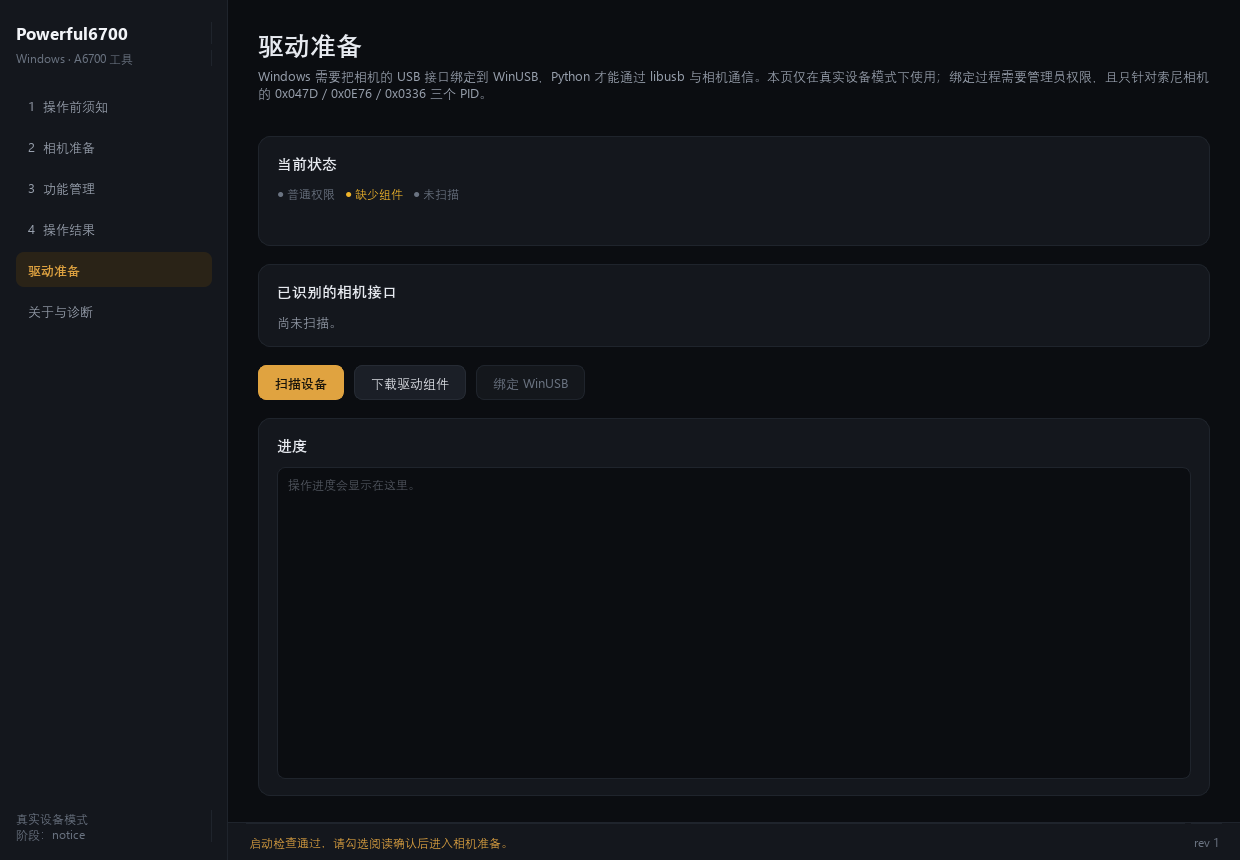
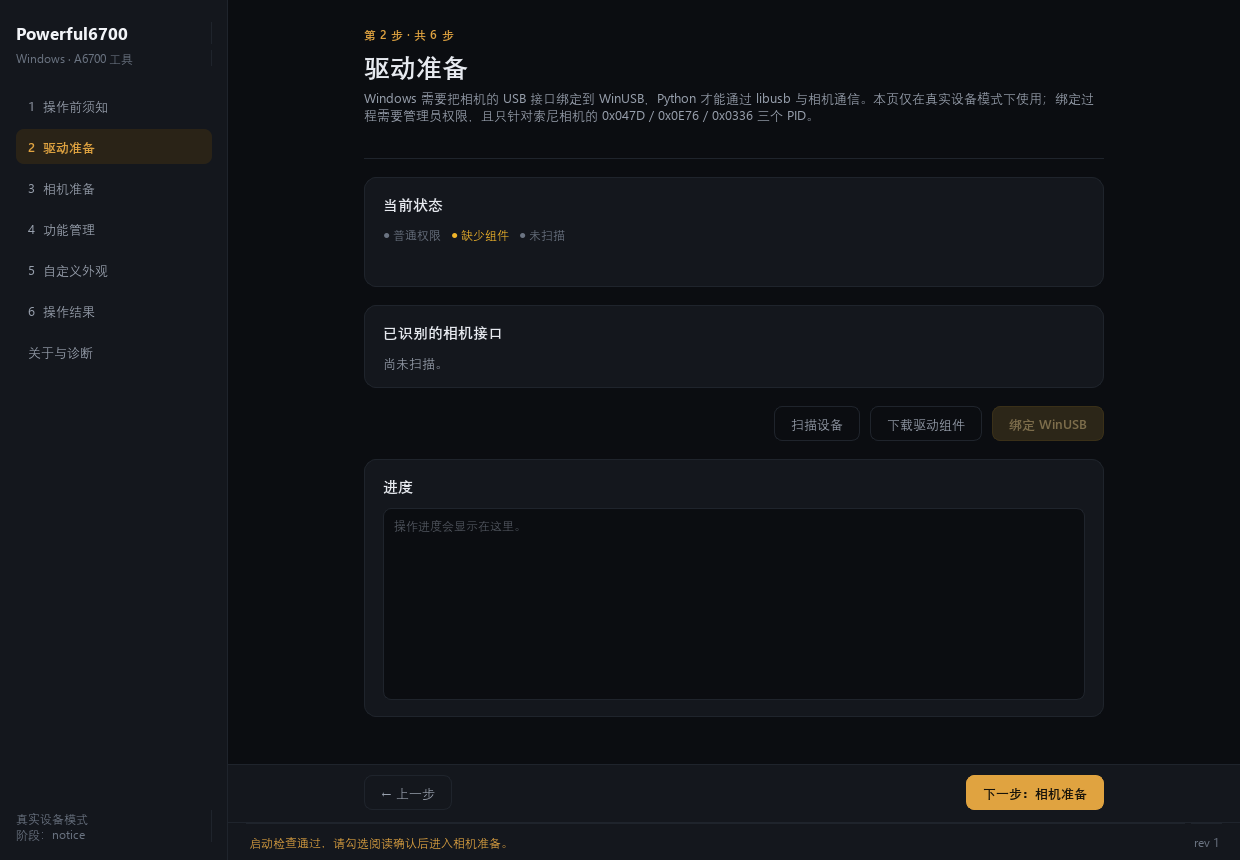
release: 0.3.0 — 新排版截图、README 数字更新

diff --git a/src/a6700win/version.py b/src/a6700win/version.py
@@ -1,6 +1,6 @@
 """版本信息集中在此，避免多处漂移。"""
 
 APP_NAME = "Powerful6700Win"
-APP_VERSION = "0.2.0"
+APP_VERSION = "0.3.0"
 APP_TITLE = "Powerful6700 · Windows"
 UPSTREAM_NOTE = "基于 xyzhangxin/sony-a6700-powerful 的 a6700_unlock 0.2.0 运行时（GPL-3.0）构建的 Windows 适配层"

diff --git a/README.md b/README.md
@@ -68,7 +68,7 @@
 
 - `third_party/a6700_unlock/` 是上游运行时 [0.2.0](https://github.com/xyzhangxin/sony-a6700-powerful/releases/tag/v0.2.0) 的**逐字节副本**（GPL-3.0，含 LICENSE／NOTICE），固件字段表、写入事务、结果分类、界面状态机都是上游的。
 - 本项目自己写的代码只有 `src/a6700win/`（Windows 适配层 + PySide6 界面）、`tools/`、`tests/`、`packaging/`。
-- 适配方式不是在运行时里改代码，而是**在启动时注入 22 个替换点**（`src/a6700win/patches.py`，逐项理由见 [docs/ARCHITECTURE.md](docs/ARCHITECTURE.md)），因此上游再发版时可以整目录替换后重新对齐。
+- 适配方式不是在运行时里改代码，而是**在启动时注入 24 个替换点**（`src/a6700win/patches.py`，逐项理由见 [docs/ARCHITECTURE.md](docs/ARCHITECTURE.md)），因此上游再发版时可以整目录替换后重新对齐。
 
 我们具体做了什么：
 
@@ -96,17 +96,21 @@
 
 以下截图用同一份发布包渲染，界面和文案都是实际内容（截图时没有连相机）：
 
-| 操作前须知 | 相机准备 |
+| 操作前须知 | 驱动准备 |
 | --- | --- |
-| ![操作前须知](docs/images/notice.png) | ![相机准备](docs/images/preparation.png) |
+| ![操作前须知](docs/images/notice.png) | ![驱动准备](docs/images/driver.png) |
 
-| 功能管理 | 操作结果 |
+| 相机准备 | 功能管理 |
 | --- | --- |
-| ![功能管理](docs/images/home.png) | ![操作结果](docs/images/result.png) |
+| ![相机准备](docs/images/preparation.png) | ![功能管理](docs/images/home.png) |
 
-| 驱动准备 | 关于与诊断 |
+| 自定义外观 | 操作结果 |
 | --- | --- |
-| ![驱动准备](docs/images/driver.png) | ![关于与诊断](docs/images/about.png) |
+| ![自定义外观](docs/images/looks.png) | ![操作结果](docs/images/result.png) |
+
+| 关于与诊断 |  |
+| --- | --- |
+| ![关于与诊断](docs/images/about.png) |  |
 
 ## 功能明细
 
@@ -128,8 +132,8 @@
 
 | 菜单项 | 改成 | 实测 |
 | --- | --- | --- |
-| PT（第 2 项） | **Classic Chrome** | 逐色相 RMS 0.194 |
-| NT（第 3 项） | **Classic Negative** | 逐色相 RMS 0.190 |
+| PT（第 2 项） | **Classic Chrome** | 逐色相 RMS 0.183 |
+| NT（第 3 项） | **Classic Negative** | 逐色相 RMS 0.173 |
 | VV（第 4 项） | Positive Film（理光正片） | 低饱和轻量版 |
 | VV2（第 5 项） | Negative Film（理光负片） | 低饱和轻量版 |
 
